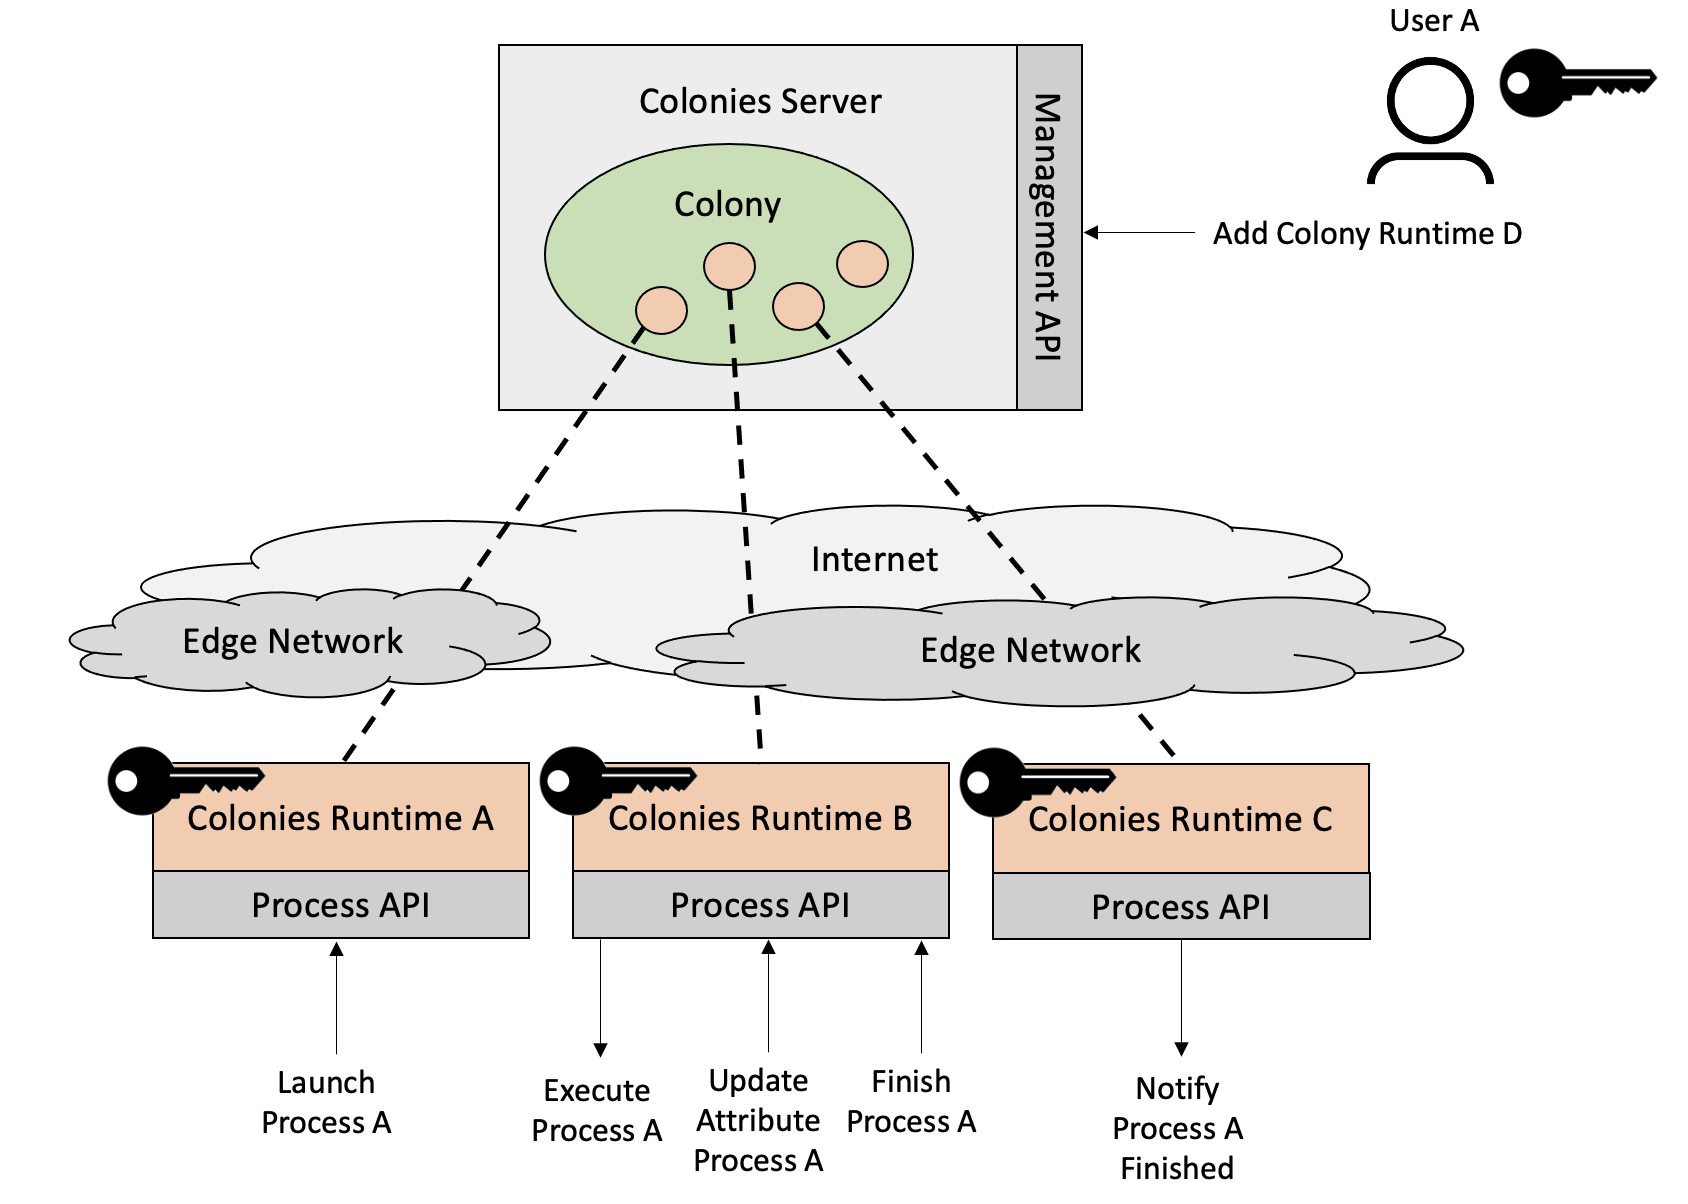
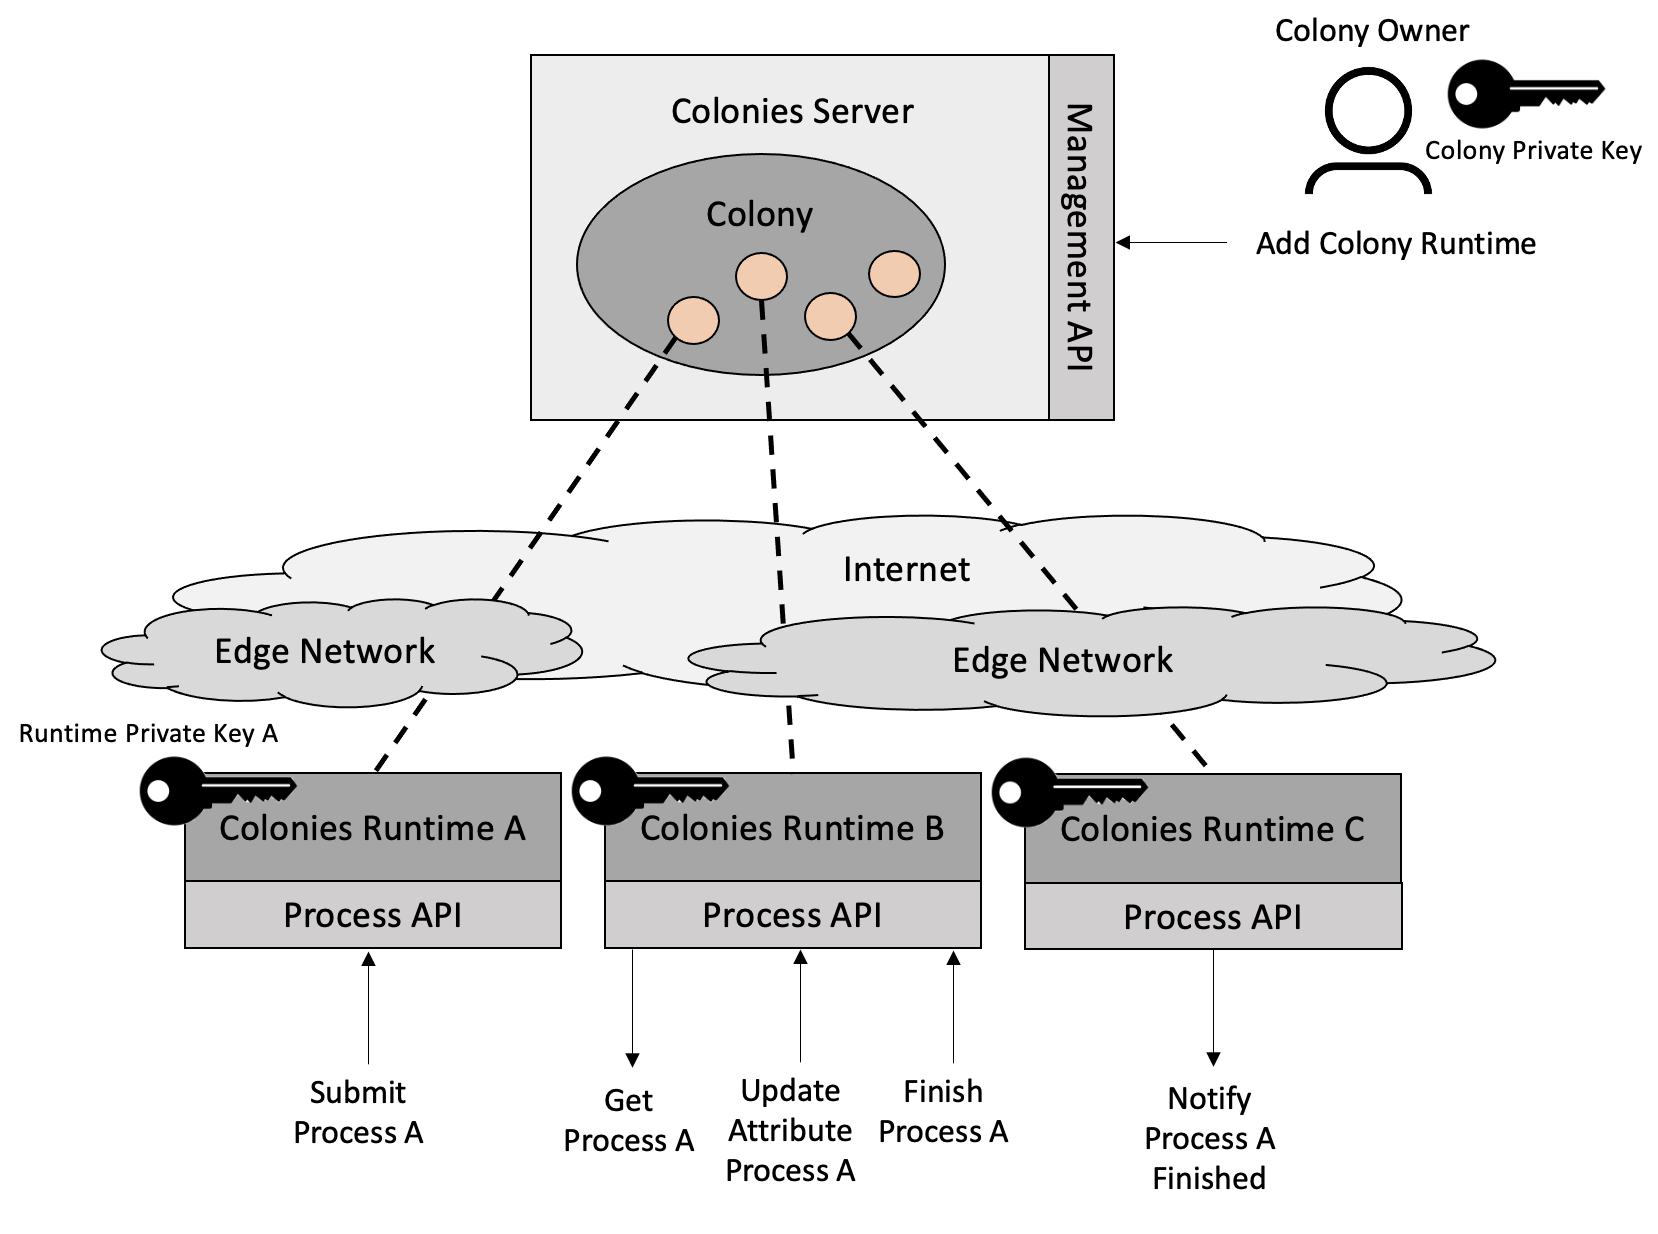
updated doc

diff --git a/README.md b/README.md
@@ -8,14 +8,14 @@ A Colony may consists of many different kinds of Colony Runtimes, e.g. a **Kuber
 ![Colonies Architecture](docs/images/ColoniesArch.png?raw=true "Colonies Architecture")
 
 ### Security principles
-A core component of Colonies is a crypto identity protocol inspired by Bitcoin and Ethereum. Each Colony and Colony Runtime is assigned a *Digital Identity* that is verified by the Colonies server using a so-called [Implicit certificates](https://en.wikipedia.org/wiki/Implicit_certificate), which is implemented using [Elliptic-curve cryptography](https://en.wikipedia.org/wiki/Elliptic-curve_cryptography). This protocol makes it possible to reconstruct public-keys from signatures. Identities can then simply be calculated as cryptographic hashes of the reconstructed public-keys.
+A core component of Colonies is a crypto identity protocol inspired by Bitcoin and Ethereum. Each Colony and Colony Runtime is assigned a *Digital Identity* that is verified by the Colonies server using a so-called [Implicit certificates](https://en.wikipedia.org/wiki/Implicit_certificate), which is implemented using [Elliptic-curve cryptography](https://en.wikipedia.org/wiki/Elliptic-curve_cryptography). This protocol makes it possible to reconstruct public-keys from signatures. Identities can then simply be calculated as cryptographic hashes (SHA3-256) of the reconstructed public-keys.
 
-The Colonies Server keeps track of these identities and applies several rules how runtimes can interact with each other. 
+The Colonies Server keeps track of these identities and applies several rules how runtimes are allowed to interact with each other. 
 
 1. Only the Colonies Server Owner may register a new Colony. **Requires rootpassword** specified when starting the Colonies Server. See example below.
-2. Only a Colony Owner may register/approve/disapprove/list/get info about Colony Runtimes in a Colony. **Requires Colony Private key.**
-3. Only a Colony Runtime may submit/list/get info about a Colony Process. **Requires Runtime Private Key.**
-4. Only a Colony Runtime may set/get/list attributes on a Colony Process. **Requires Runtime Private Key.**
+2. Only a Colony Owner may register/approve/disapprove/list/get info about Colony Runtimes in a Colony. **Requires a Colony Private key.**
+3. Only a Colony Runtime may submit/list/get info about a process. **Requires a Runtime Private Key.**
+4. Only a Colony Runtime may set/get/list attributes on a process. **Requires a Runtime Private Key.**
 
 Note that the Colonies server does not store any crypto keys, but rather stores identites in a database and verifies that reconstructed identities obtained from RPC calls matches the identities stored in the database.
 
